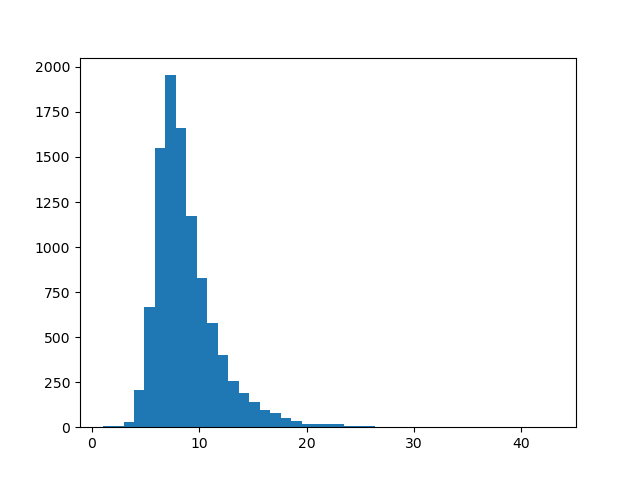
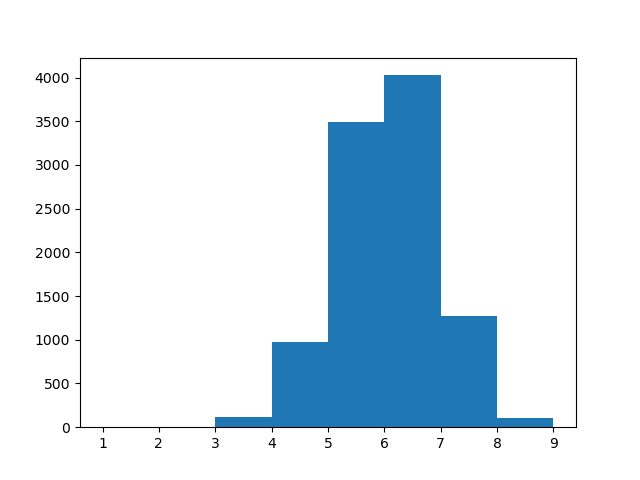
수학이 1 최종완성

diff --git a/Baseball수학3.py b/Baseball수학3.py
@@ -1,27 +1,99 @@
-import random
+"""
+과제
+1. 어떤 자리에 들어가야하는지? s를 이용해서 자리수를 완벽히 찾을 수 있나?
+"""
 
 class observe():
     def __init__(self):
+        self.iter = 1
         self.check = [0,1,2,3]
-        self.distrib_1 = [0,0,0,0,0,0,0,0,0,0]
-        self.distrib_2 = [0,0,0,0,0,0,0,0,0,0]
+        self.pos = [0 for i in range(10)]
+        self.s = []
+        self.b = []
 
     def cycle(self):
         for i in range(4):
             self.check[i] += 1
             if self.check[i] > 9:
                 self.check[i] -= 10
+        self.iter += 1
 
     def update(self, strike, ball):
-        if strike + ball != 0:
-            for i in self.check:
-                self.distrib_1[i] += strike+ball
+        if strike == 4:
+            return
         if strike != 0:
-            for j in range(len(self.check)):
-                self.distrib_2[self.check[j]] += 10**j
+            for i in range(4):
+                self.pos[(self.check[0]+i)%10] += 10**i
+        
+        self.s.append(strike)
+        self.b.append(strike+ball)
         self.cycle()
+
+    def question(self):
+        if self.iter == 10:
+            self.calculate()
+            return self.ans
+        elif self.iter == 11:
+            pass##############################################
+        else:
+            return self.check
+
+    def calculate(self):
+        self.update(4-sum(self.s),12-sum(self.b)+sum(self.s))
+        
+        #어떤 숫자가 들어가야할지를 s+b를 통해 알아내는 기능(구현완료)
+        self.d = []
+        for i in range(10):
+            self.d.append(self.b[(4+i)%10]+self.b[(8+i)%10]+self.b[(0+i)%10])
+
+        self.nums = []
+        self.nonums = []
+        for i in range(10):
+            if self.d[i] == 6:
+                self.nums.append(i)
+                self.nums.append((i+1)%10)
+            elif self.d[i] == 4:
+                self.nonums.append(i)
+                self.nonums.append((i+1)%10)
+        for i in range(10):
+            for j in range(10):
+                if self.d[j] == 5 and (j+1)%10 in self.nums and j not in self.nonums:
+                    self.nonums.append(j)
+                elif self.d[j] == 5 and (j+1)%10 in self.nonums and j not in self.nums:
+                    self.nums.append(j)
+        print(self.nums)
+
+        #어떤 자리에 들어가야되는지 판별하는 기능(미흡)
+        l = [self.pos[i] for i in self.nums]
+        ans = [[],[],[],[]]
+        for i in range(4):
+            for j in range(4):
+                if l[j]//(10**i)%10 == 1:
+                    ans[i].append(self.nums[j])
+        print(ans)
+
+        self.ans = [10,10,10,10]
+        for i in ans:
+            if len(i) > 0:
+                self.decision(ans)
+
+    def decision(self, ans):
+        for i in range(4):
+            if len(ans[i]) == 1:
+                self.ans[i] = ans[i][0]
+                for j in range(4):
+                    if i != j:
+                        if ans[i][0] in ans[j]:
+                            ans[j].remove(ans[i][0])
+        #수정필요
+        for j in range(4):
+            if len(ans[i]) > 1:
+                self.ans[i] = ans[i][0]
+                for j in range(4):
+                    if i != j:
+                        if ans[i][0] in ans[j]:
+                            ans[j].remove(ans[i][0])
 
 if __name__ == '__main__':
     b = observe()
-    for i in range(10):
-        print(b.guess())
+    print(b.s)

diff --git a/Baseball수학.py b/Baseball수학.py
@@ -5,9 +5,24 @@ class guess():
         self.history = []                                               #[지금까지 추측한 답, 스트라이크, 볼]형태의 데이터
         self.numbers = [list(i for i in range(10)) for j in range(4)]   #각 자릿수에 올 수 있는 숫자들을 정리한 2차원 배열.
         self.iter = 0                                                   #문답한 횟수
+        self.must = []
 
     def eliminate(self, l, strike, ball):                               #strike, ball의 입력에 따라 각 자릿수에 올만한 숫자를 정리하는 함수
         self.history.append([l,strike,ball])                            #과거에 했던 대답과 그에 따른 strike, ball을 기억
+        if self.iter == 2:
+            sum = 0
+            for i in self.history:
+                sum += i[1]+i[2]
+            if sum == 4:
+                for j in self.numbers:
+                    if 8 in j:
+                        j.remove(8)
+                    if 9 in j:
+                        j.remove(9)
+            elif sum == 5:
+                self.must.append(8)
+                self.must.append(9)
+        
         if strike == 4:
             return
         if strike == 0:                                                 #strike가 0일 경우
@@ -30,9 +45,9 @@ class guess():
     def randGuess(self):
         self.iter += 1
         if self.iter == 1:
-            return [1,2,3,4]
+            return [0,1,2,3]
         elif self.iter == 2:
-            return [5,6,7,8]
+            return [4,5,6,7]
         else:
             l = []
             while len(l)<4:
@@ -45,16 +60,28 @@ class guess():
                         l.append(n)
 
                 if len(l) == 4:
-                    for j in self.history:                              #과거 기록을 참고하여 랜덤으로 뽑을 숫자를 한정 (예: [1,2,3,4]가 0s 2b였다면 1~4중에서는 2개만 뽑도록 함)
+                    for i in self.must:
+                        if i not in l:
+                            l=[]
+                            break
+                    for i in self.history:
                         cnt = 0
-                        for k in l:
-                            if k in j[0]:
+                        for j in range(4):
+                            if l[j] == i[0][j]:
                                 cnt += 1
-                        if cnt != j[1]+j[2]:
+                        if cnt != i[1]:
+                            l=[]
+                            break
+                    for i in self.history:                              #과거 기록을 참고하여 랜덤으로 뽑을 숫자를 한정 (예: [1,2,3,4]가 0s 2b였다면 1~4중에서는 2개만 뽑도록 함)
+                        cnt = 0
+                        for j in l:
+                            if j in i[0]:
+                                cnt += 1
+                        if cnt != i[1]+i[2]:
                             l=[]
                             break
                 
-                if len(l) > 4:
+                if len(l) > 4:                                          #리스트 원소 개수가 5개 이상이 되는 것을 방지.
                     l = []
                     continue
             return l

diff --git a/AvgIter.py b/AvgIter.py
@@ -1,5 +1,5 @@
 import Baseball동국
-import Baseball수학2
+import Baseball수학
 import math
 import matplotlib.pyplot as plt
 
@@ -8,15 +8,15 @@ s = 0
 V = 0
 iter = 10000
 
-b = Baseball수학2.guess()
 
 for i in range(iter):
+    b = Baseball수학.guess()
     Dgu = Baseball동국.Dongguk()
-    b.iter = 0
-    b.index = [j for j in range(5040)]
+    #b.iter = 0
+    # b.index = [j for j in range(5040)]
 
     while Dgu.strike < 4:
-        num = b.guess()
+        num = b.randGuess()
         print(num)
         Dgu.evaluate(num)
         b.eliminate(num, Dgu.strike, Dgu.ball)
@@ -30,7 +30,7 @@ for i in score:
 d = math.sqrt(V/iter)
 print("average: %f, standard deviation: %f"%(avg, d))
 
-bin = max(score)-min(score)+1
+bin = max(score)-min(score)
 
 plt.hist(score, bins=bin)
 plt.show()

diff --git a/Baseball수학2.py b/Baseball수학2.py
@@ -19,11 +19,12 @@ class guess():
 
     def eliminate(self, l, s, b):
         index = self.total.index(l)
-        self.index.remove(index)
+        self.index.remove(index)    #질문했던거는 다시 질문하지 않는다.
         n = []
         for i in range(len(self.Data[index])):
             if self.Data[index][i] == [s, b]:
                 n.append(i)
+        print(len(n))
         for i in self.index:
             if i in n:
                 pass
@@ -39,9 +40,4 @@ class guess():
 
 if __name__ == "__main__":
     b = guess()
-    x = [3,2,5,7]
-    y = [9,4,8,2]
-    X = b.total.index(x)
-    Y = b.total.index(y)
-    print(b.Data[X][Y])
-    print(b.Data[Y][X])
+    b.eliminate([0,1,2,3],0,4)

diff --git a/Create_dataset.py b/Create_dataset.py
@@ -1,17 +1,4 @@
-import random
 import numpy as np
-
-def switch(l,a,b):      #두 숫자의 위치를 바꿈
-    x, y = l[a], l[b]
-    l[b] = x
-    l[a] = y
-    return l
-
-def change(l,*args):    #리스트에 없는 다른 숫자로 바꿈
-    n = random.sample([i for i in range(10) if i not in l], len(args))
-    for i in range(len(args)):
-        l[args[i]] = n[i]
-    return l
 
 total = []
 li = []

diff --git a/Baseballgame.py b/Baseballgame.py
@@ -8,12 +8,14 @@ if len(set(givenumber)) < 4:
 Dgu = Baseball동국.Dongguk(givenumber)
 b = Baseball수학.guess()
 
-# print(b.total.index(list(map(int, givenumber))))
+#print(b.total.index(list(map(int, givenumber))))
 
-while Dgu.strike < 4:
+while Dgu.strike <4:
     num = b.randGuess()
     print(num)
     Dgu.evaluate(num)
     b.eliminate(num, Dgu.strike, Dgu.ball)
+
+
 
 

diff --git a/Baseball동국.py b/Baseball동국.py
@@ -34,7 +34,6 @@ class Dongguk:
 
 if __name__ == '__main__':
     Dgu = Dongguk()
-    print(Dgu.number)
     while Dgu.strike < 4:
         number = list(map(int, input("무엇: ")))
         Dgu.evaluate(number)
